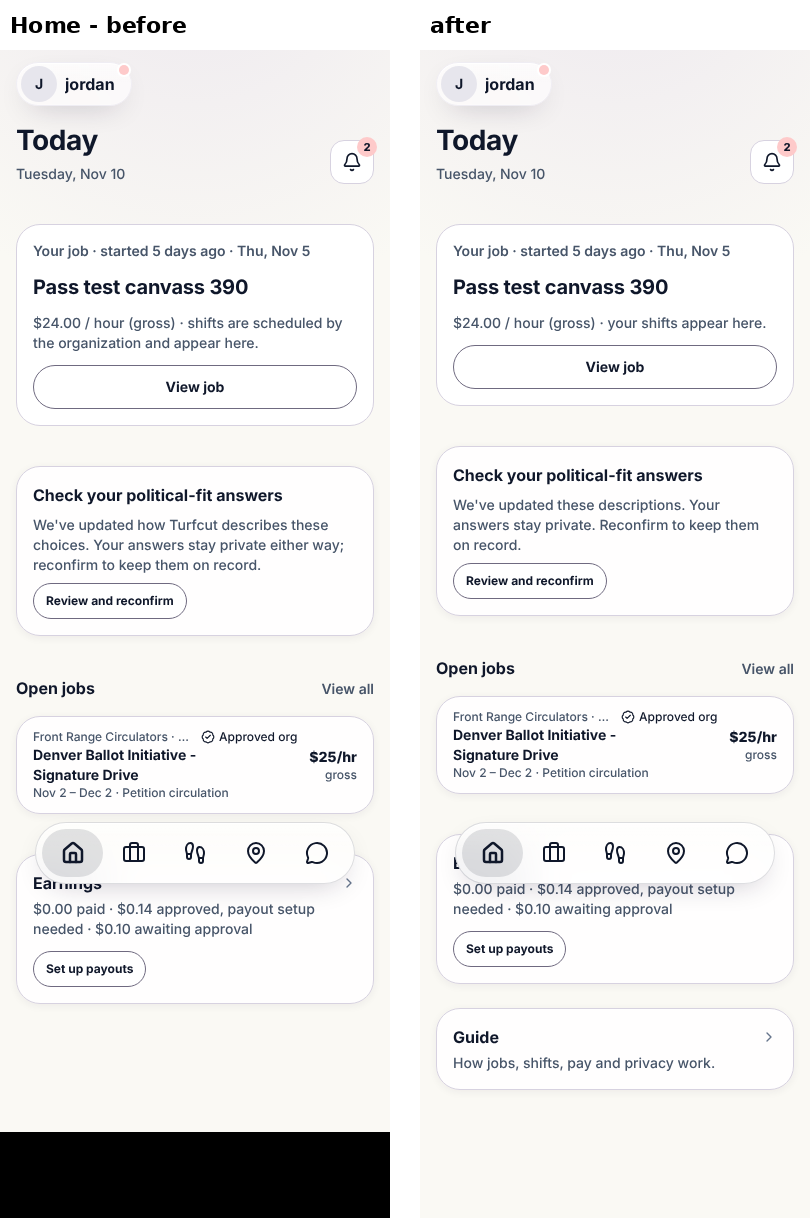
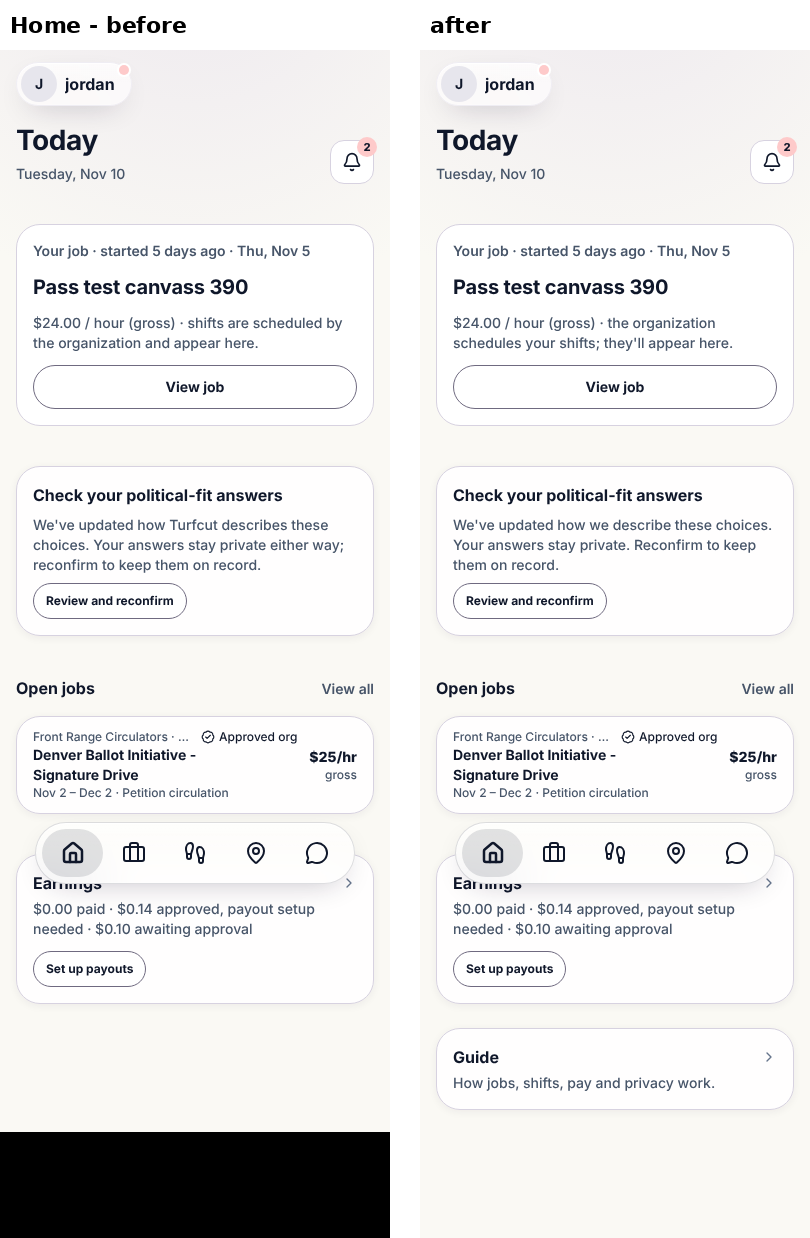
Less wording: review corrections
Four lines about pay had been shortened past the truth and are corrected on
Earnings and in the Guide. The Guide's text moves to lib/guide with a test
pinning its pay and privacy sentences and the short lines the screens keep.

Claude-Session: https://claude.ai/code/session_01M5jonG7B326Ty4GJKyZ5gK

diff --git a/src/app/guide/page.tsx b/src/app/guide/page.tsx
@@ -1,76 +1,27 @@
 import Link from "next/link";
 import type { Metadata } from "next";
-import { requireWorker } from "@/lib/worker-session";
+import { requireRole } from "@/lib/auth";
 import { Masthead } from "@/components/Masthead";
 import { ReadingPage } from "@/components/layout/Page";
+import { GUIDE_SECTIONS } from "@/lib/guide";
 
 export const metadata: Metadata = { title: "Guide" };
 
-/**
- * The worker's guide (Caden, Nov 10): the explanations that used to sit on every screen, in one
- * place. Screens keep the figure, the action and one short line; they link here for the rest.
- * Every statement is one the app already made on Home, Jobs, Earnings or a shift page.
- */
-const SECTIONS: { id: string; title: string; points: string[]; link?: { href: string; label: string } }[] = [
-  {
-    id: "jobs",
-    title: "Finding jobs",
-    points: [
-      "Every open job shows its gross rate, the credentials it needs and who to call before you apply.",
-      "Swipe a job right to save it and left to hide it, or use the buttons.",
-      "Saving and hiding are private to you. Neither is ever used to rank jobs or people.",
-    ],
-    link: { href: "/jobs", label: "Open Jobs" },
-  },
-  {
-    id: "shifts",
-    title: "Shifts",
-    points: [
-      "The organization schedules your shifts. They appear on Home and under Work.",
-      "While you're checked in, the timer counts from your check-in. It is not your verified pay time.",
-      "Pay counts verified time only.",
-      "If a shift has ended and you're still checked in, open the shift to check out, or ask your organizer to correct the end time.",
-    ],
-    link: { href: "/shifts", label: "Open Work" },
-  },
-  {
-    id: "pay",
-    title: "Getting paid",
-    points: [
-      "Earnings shows gross pay for shifts your supervisors approved.",
-      "Each amount is worked out from your verified hours or accepted work at the job's posted rate.",
-      "Turfcut never takes a cut of your pay. Campaigns pay the platform fee.",
-      "An amount is never changed after it's approved. A correction shows up as an adjustment.",
-      "Set up payouts once and approved pay goes to your bank through Stripe. Stripe collects your bank and tax details; Turfcut never sees them.",
-      "You get a receipt for every payment sent to you.",
-      "If a line looks wrong, dispute it from Earnings.",
-    ],
-    link: { href: "/earnings", label: "Open Earnings" },
-  },
-  {
-    id: "privacy",
-    title: "Who sees what",
-    points: [
-      "You choose who sees each part of your scorecard, your availability and your credentials.",
-      "You choose whether organizations can find you.",
-      "Your political-fit answers are used only as you authorize. Turfcut never guesses them.",
-    ],
-    link: { href: "/profile/sharing", label: "Open Who sees what" },
-  },
-];
+/** The worker's guide: screens keep the figure, the action and one short line, and link here for the rest (lib/guide). */
 
 export default async function GuidePage() {
-  await requireWorker();
+  // No worker data is read: any worker login may open it, linked to a profile or not.
+  await requireRole(["WORKER"]);
   return (
     <ReadingPage gap={6} head={<Masthead title="Guide" meta="How Turfcut works, in one place." />}>
       <nav aria-label="Guide sections">
-        <ul className="flex flex-wrap gap-2">
-          {SECTIONS.map((s) => (
-            <li key={s.id}><a href={`#${s.id}`} className="filter-chip">{s.title}</a></li>
+        <ul className="flex flex-wrap gap-x-4 gap-y-2">
+          {GUIDE_SECTIONS.map((s) => (
+            <li key={s.id}><a href={`#${s.id}`} className="link text-sm">{s.title}</a></li>
           ))}
         </ul>
       </nav>
-      {SECTIONS.map((s) => (
+      {GUIDE_SECTIONS.map((s) => (
         <section key={s.id} id={s.id} aria-labelledby={`${s.id}-heading`} className="card scroll-mt-24 space-y-3">
           <h2 id={`${s.id}-heading`} className="t-headline text-fg">{s.title}</h2>
           <ul className="list-disc space-y-1.5 ps-5 text-sm text-fg">

diff --git a/src/app/dashboard/page.tsx b/src/app/dashboard/page.tsx
@@ -196,7 +196,7 @@ async function WorkerHero({ workerId }: { workerId: string }) {
             <div><dt className="work-fact-label order-2">Gross rate</dt><dd className="work-fact-figure">{payShort(job.compensationMethod, job.payRateCents, job.type)}</dd></div>
           </dl>
           <Link transitionTypes={["nav-forward"]} href={`/shifts/${shift.id}`} className="btn-primary btn-lg w-full">{isLive ? "Open field day" : "View shift details"}</Link>
-          <p className="text-xs text-subtle">{job.org.name}{isLive ? " · timer runs from check-in, not pay time" : ""}</p>
+          <p className="text-xs text-subtle">{job.org.name}{isLive ? " · time since check-in, not verified pay time" : ""}</p>
         </section>
       </>
     );
@@ -210,7 +210,7 @@ async function WorkerHero({ workerId }: { workerId: string }) {
     return (
       <section className="work-card space-y-3" aria-label="Nothing scheduled">
         <h2 className="t-headline text-fg">Nothing scheduled</h2>
-                <Link transitionTypes={["nav-forward"]} href="/jobs" className="btn-primary btn-lg w-full">Find Jobs</Link>
+        <Link transitionTypes={["nav-forward"]} href="/jobs" className="btn-primary btn-lg w-full">Find Jobs</Link>
       </section>
     );
   }
@@ -227,7 +227,7 @@ async function WorkerHero({ workerId }: { workerId: string }) {
         )}
       </p>
       <h2 className="t-headline text-fg">{next.job.title}</h2>
-      <p className="text-sm text-muted">{payText(next.job.compensationMethod, next.job.payRateCents)} · your shifts appear here.</p>
+      <p className="text-sm text-muted">{payText(next.job.compensationMethod, next.job.payRateCents)} · the organization schedules your shifts; they&apos;ll appear here.</p>
       <Link transitionTypes={["nav-forward"]} href={`/jobs/${next.job.id}`} className="btn-secondary w-full">View job</Link>
     </section>
   );
@@ -263,7 +263,7 @@ async function SharingNote({ workerId }: { workerId: string }) {
       <p className="text-muted-sm">
         {never
           ? `Choose who sees your profile and whether organizations can find you. Until you do, organizations you ${RELATIONSHIP_PHRASE} see it, and nobody can find you.`
-          : "We've updated how we explain who sees what. Your choices are unchanged; please confirm them. If you let organizations find you, they can't until you do."}
+          : "We've updated how we explain who sees what. Your choices are unchanged; please confirm them. If you let organizations find you, they can't until you confirm."}
       </p>
       <Link transitionTypes={["nav-forward"]} href="/profile/setup" className="btn-secondary btn-sm">{never ? "Set it up (4 short steps)" : "Check your choices"}</Link>
     </DismissibleNote>
@@ -401,7 +401,7 @@ async function FitReconfirm({ workerId }: { workerId: string }) {
           ? "They reached the expiry you chose."
           : fit.visibilityMode === "APPLIED_TO"
             ? "We've changed how we describe who sees them: claiming a spot counts, as applying does."
-            : "We've updated these descriptions."}{" "}
+            : "We've updated how we describe these choices."}{" "}
         {PAUSED[fit.visibilityMode]}
       </p>
       <Link href="/profile/preferences" className="btn-secondary btn-sm">Review and reconfirm</Link>

diff --git a/src/lib/guide.ts b/src/lib/guide.ts
@@ -1,0 +1,59 @@
+/**
+ * The worker's guide (Caden, Nov 10): the explanations that used to sit on every screen, in one
+ * place. Every statement describes existing behaviour; nothing here is a new promise. Change a
+ * sentence only with the code that makes it true (guide.test.ts pins the ones about pay and privacy).
+ */
+export interface GuideSection {
+  id: string;
+  title: string;
+  points: string[];
+  link?: { href: string; label: string };
+}
+
+export const GUIDE_SECTIONS: GuideSection[] = [
+  {
+    id: "jobs",
+    title: "Finding jobs",
+    points: [
+      "Every job page shows the gross rate, the credentials it needs and who handles problems, before you apply.",
+      "Swipe a job right to save it and left to hide it, or use the buttons.",
+      "Saving and hiding are private to you. Neither is ever used to rank jobs or people.",
+    ],
+    link: { href: "/jobs", label: "Open Jobs" },
+  },
+  {
+    id: "shifts",
+    title: "Shifts",
+    points: [
+      "The organization schedules your shifts. They appear on Home and under Work.",
+      "While you're checked in, the timer counts from your check-in. It is not your verified pay time.",
+      "On hourly jobs, pay counts verified time only.",
+      "If a shift has ended and you're still checked in, open the shift to check out, or ask your organizer to correct the end time.",
+    ],
+    link: { href: "/shifts", label: "Open Work" },
+  },
+  {
+    id: "pay",
+    title: "Getting paid",
+    points: [
+      "Earnings shows gross pay for shifts your supervisors approved.",
+      "Each amount is worked out from your verified hours, completed shifts or accepted work at the job's posted rate.",
+      "Turfcut never takes a cut of your pay. Campaigns pay the platform fee.",
+      "Once pay is approved for payment, its amount never changes. A correction shows up as a separate adjustment.",
+      "Set up payouts once and approved pay goes to your bank through Stripe. Stripe collects your bank and tax details; Turfcut never sees them.",
+      "You get a receipt for every payment sent to you.",
+      "If a reviewed shift's pay looks wrong, dispute it from Earnings.",
+    ],
+    link: { href: "/earnings", label: "Open Earnings" },
+  },
+  {
+    id: "privacy",
+    title: "Who sees what",
+    points: [
+      "You choose who sees each part of your scorecard, your availability and your credentials.",
+      "You choose whether organizations can find you.",
+      "Your political-fit answers are used only as you authorize. Turfcut never guesses your politics.",
+    ],
+    link: { href: "/profile/sharing", label: "Open Who sees what" },
+  },
+];

diff --git a/src/app/earnings/page.tsx b/src/app/earnings/page.tsx
@@ -35,12 +35,12 @@ async function PayoutSetup({ w, note }: { w: PayoutState; note: string | null })
           <p className="text-muted-sm"><Link href="/earnings/receipts" className="link">Receipts</Link></p>
           <p className="text-muted-sm">
             {!provider.configured()
-              ? "Payouts aren't switched on yet. Approved pay is kept until they are."
+              ? "Payouts aren't switched on yet. Approved pay is kept and sent once they are."
               : w.payoutsEnabled
                 ? "Approved pay goes to your bank through Stripe."
                 : w.stripeAccountId
                   ? "Finish setting up with Stripe so you can be paid."
-                  : "Stripe pays your bank directly. Turfcut never sees your bank or tax details."}
+                  : "Set up payouts to be paid. Stripe collects your bank and tax details; Turfcut never sees them."}
           </p>
         </div>
         {w.payoutsEnabled && <StatusChip state="approved" label="Ready" className="shrink-0" />}
@@ -162,7 +162,7 @@ export default async function EarningsPage({ searchParams }: { searchParams: Pro
   const [{ campaigns, totals }, w] = await Promise.all([loadWorkerEarnings(workerId), payoutSetup(workerId, stripeProvider(), note === "done")]);
   const payouts = payoutReadiness(stripeProvider().configured(), w.payoutsEnabled);
   return (
-    <ReadingPage gap={6} head={<Masthead title="Earnings" meta="Approved gross pay. Turfcut takes no cut." />}>
+    <ReadingPage gap={6} head={<Masthead title="Earnings" meta="Gross pay for shifts your supervisors approved. Turfcut takes no cut." />}>
       {/* One compact band (#114 Earnings): each figure a real sum in its own pay state, never merged; the Payouts card right under it is the way to unblock approved pay. */}
       <section aria-labelledby="earnings-totals-heading">
         <h2 id="earnings-totals-heading" className="sr-only">All campaigns</h2>
@@ -207,7 +207,7 @@ export default async function EarningsPage({ searchParams }: { searchParams: Pro
           </section>
         ))
       )}
-      <p className="text-hint">Amounts never change after approval. <Link href="/guide#pay" className="link">How pay works</Link></p>
+      <p className="text-hint">Once pay is approved for payment, the amount never changes. <Link href="/guide#pay" className="link">How pay works</Link></p>
     </ReadingPage>
   );
 }

diff --git a/src/lib/guide.test.ts b/src/lib/guide.test.ts
@@ -1,0 +1,39 @@
+import { describe, expect, it } from "vitest";
+import { existsSync, readFileSync } from "node:fs";
+import { join } from "node:path";
+import { GUIDE_SECTIONS } from "./guide";
+import { activeTab, navTabs, workerMore } from "./nav";
+
+const app = (p: string) => join(__dirname, "../app", p);
+const text = GUIDE_SECTIONS.flatMap((s) => s.points).join("\n");
+
+describe("the worker's guide", () => {
+  it("has the four sections the screens link to, each pointing at a real page", () => {
+    expect(GUIDE_SECTIONS.map((s) => s.id)).toEqual(["jobs", "shifts", "pay", "privacy"]);
+    for (const s of GUIDE_SECTIONS) expect(existsSync(app(`${s.link!.href.slice(1)}/page.tsx`))).toBe(true);
+  });
+
+  it("keeps the statements about pay and privacy that the screens no longer spell out", () => {
+    expect(text).toContain("Turfcut never takes a cut of your pay. Campaigns pay the platform fee.");
+    expect(text).toContain("Stripe collects your bank and tax details; Turfcut never sees them.");
+    expect(text).toContain("Once pay is approved for payment, its amount never changes.");
+    expect(text).toContain("Neither is ever used to rank jobs or people.");
+    expect(text).toContain("Turfcut never guesses your politics.");
+    // Hourly only: shift-rate and per-unit jobs are not paid by the clock.
+    expect(text).toContain("On hourly jobs, pay counts verified time only.");
+  });
+
+  it("is reachable: a card on Home, a link from Earnings, a row in the menu and sidebar", () => {
+    expect(readFileSync(app("dashboard/page.tsx"), "utf8")).toContain('href="/guide"');
+    expect(readFileSync(app("earnings/page.tsx"), "utf8")).toContain('href="/guide#pay"');
+    expect(activeTab([...navTabs("WORKER", false), ...workerMore("WORKER")], "/guide")).toBe("/guide");
+  });
+
+  it("the screens keep their one short line where money or privacy is at stake", () => {
+    const earnings = readFileSync(app("earnings/page.tsx"), "utf8");
+    expect(earnings).toContain("Turfcut takes no cut.");
+    expect(earnings).toContain("Turfcut never sees them.");
+    expect(readFileSync(app("jobs/page.tsx"), "utf8")).toContain("private and never used for ranking");
+    expect(readFileSync(app("dashboard/page.tsx"), "utf8")).toContain("Your answers stay private.");
+  });
+});

diff --git a/src/app/jobs/page.tsx b/src/app/jobs/page.tsx
@@ -218,7 +218,7 @@ async function WorkerFeed({ workerId, searchParams }: { workerId: string; search
         <p className="text-hint">
           {showHidden
             ? "Unhide brings a job back. Hiding and saving are private and never used for ranking."
-            : "Swipe right to save, left to hide. Both are private and never used for ranking."}
+            : "Swipe right to save, left to hide, or use the buttons. Both are private and never used for ranking."}
           {hiddenCount > 0 && !showHidden && (
             <> <Link href="/jobs?hidden=1" scroll={false} className="link">{plural(hiddenCount, "hidden job", "hidden jobs")}</Link>.</>
           )}

diff --git a/docs/design/hero-board/evidence/less-wording-2026-11-10/README.md b/docs/design/hero-board/evidence/less-wording-2026-11-10/README.md
@@ -4,18 +4,29 @@ Caden asked for less wording across the app, with the detail moved to training d
 
 ## What changed
 
-- **A Guide** at `/guide`, linked from Home and listed in the menu and sidebar. Four sections: Finding jobs, Shifts, Getting paid, Who sees what. Every statement in it is one the app already made on a screen; nothing is new.
+- **A Guide** at `/guide`, linked from Home and listed in the menu and sidebar. Four sections: Finding jobs, Shifts, Getting paid, Who sees what. Every statement describes existing behaviour; nothing in it is a new promise.
 - **Home, Jobs and Earnings** keep the heading, the figures, the action and one short line. Where money or privacy is at stake the line stays, shorter. Earnings links to the Guide's pay section.
 
 Words on screen at 390 wide, for the test worker (counted from the page's text):
 
 | Page | Before | After |
 | :--- | ---: | ---: |
-| Home | 108 | 106 (with the new Guide card, 9 words) |
-| Jobs | 91 | 78 |
-| Earnings | 162 | 110 |
+| Home | 108 | 113 (with the new Guide card, 9 words) |
+| Jobs | 91 | 82 |
+| Earnings | 162 | 123 |
 
 Home was already short; most of its text is the worker's own job, figures and buttons.
+
+## Review
+
+A separate Claude reviewer checked each Guide sentence against the code and each shortened line against the one it replaced. Nothing blocking, but the first cut had shortened four lines about money too far, and they are corrected:
+- "Approved gross pay" misdescribed a page that also lists pay awaiting approval (now "Gross pay for shifts your supervisors approved. Turfcut takes no cut.");
+- "Stripe pays your bank directly" was shown to someone not yet set up and dropped that Stripe asks for bank and tax details (now "Set up payouts to be paid. Stripe collects your bank and tax details; Turfcut never sees them.");
+- "never changes after approval" was wrong until pay is approved for payment (now says so, on Earnings and in the Guide);
+- "Pay counts verified time only" is true of hourly jobs only (the Guide says so, and names completed shifts and accepted work).
+Smaller wording was restored where the short version was ambiguous. The counts above are after these corrections, which is why Home did not shrink: its text was already short, and it gained the Guide card.
+
+The Guide's text now lives in `src/lib/guide.ts` with a test that pins its pay and privacy sentences, its links, and the short lines the screens keep.
 
 ## Kept on purpose
 
